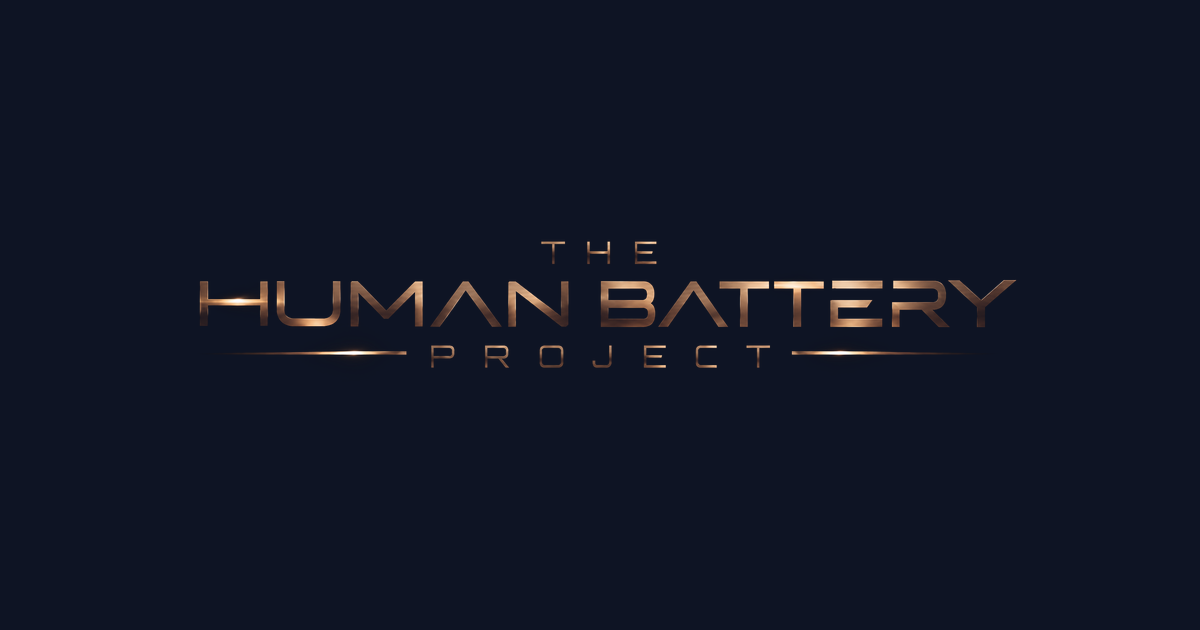
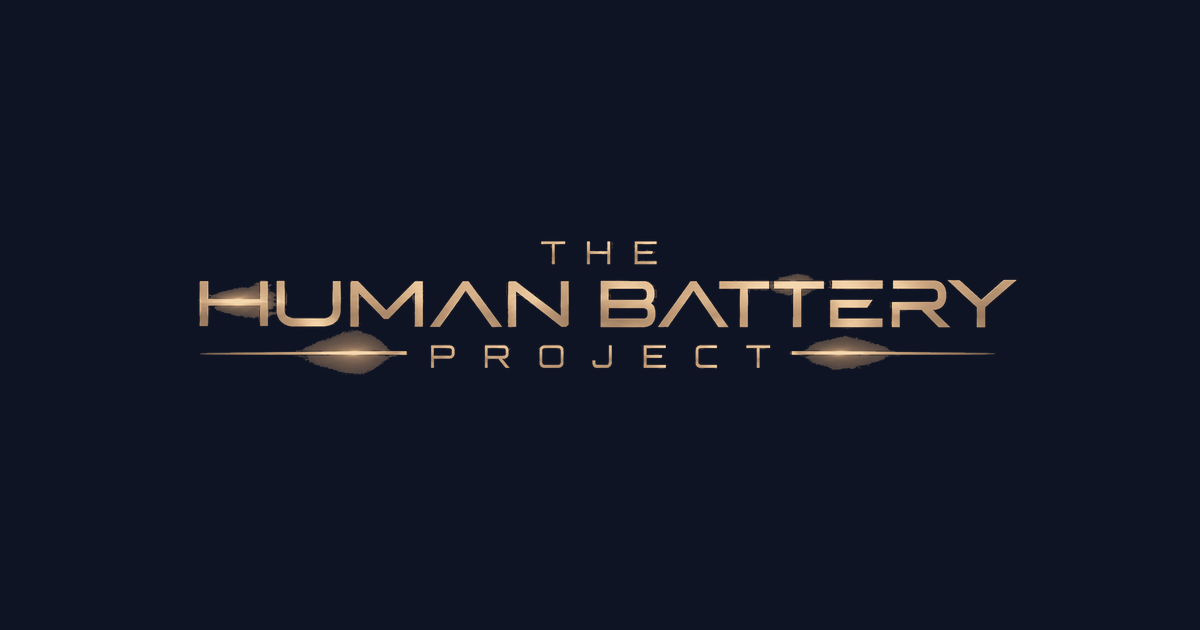
A1: hero wordmark legibility, improved and honestly short of the target
RECOMPUTED FIRST, per rule 0.1, and it is worse than the brief states:
64.5 percent of ink area is below 3:1, not half, and the 10th percentile
is 1.01:1, not 1.4:1.

Regenerated as specified: floor raised, midtone copper-light, highlight
no lighter than #F5D7AF, same 2172x724 canvas, alpha keyed as before.
Measured at the rendered 262px hero width on a 390px viewport:

                       10th    50th    90th
  v1, live today       1.01    1.50    5.95
  A1                   1.18    3.40    9.82

THE MEDIAN MORE THAN DOUBLES. The 10th percentile does not reach 4.5 and
I could not make it, so I am not claiming it.

WHY IT CANNOT BE REACHED. This artwork is a glow: 23 percent of its ink
pixels sit at alpha 0 to 31, and a partially transparent pixel
composites toward the background by construction, whatever its colour.
No gradient floor can lift a pixel that is nine tenths background. I
swept the floor from #B4794F to #E6C39B and the alpha gamma from 1.0 to
0.12, sixteen combinations. Exactly one reaches 4.5 at the 10th
percentile over all ink: floor #D9A87A at gamma 0.12. I rendered it and
looked at it. It turns the two lens flares beside PROJECT into opaque
blobs and destroys the mark. That is the trade the number demands and I
did not take it without asking.

What I shipped is floor #D9A87A at gamma 0.32, which keeps the flares as
flares, and I have attached the comparison.

THIS IS YOUR DECISION, and it is the only way past 4.5: the wordmark
[…]

Changed region(s): [[0.1542, 0.3619, 0.8325, 0.6032], [0.8325, 0.4222, 0.8633, 0.4524]]

diff --git a/public/science.html b/public/science.html
@@ -20,7 +20,7 @@
 <meta name="twitter:description" content="Thirty-three biomarkers and physical capacity testing at day 0, a structured protocol, the same measurements at day 90.">
 <meta name="twitter:image" content="https://thehumanbatteryproject.com/assets/og-card.png">
 <meta name="theme-color" content="#0E1424">
-<link rel="stylesheet" href="/styles.css?v=47">
+<link rel="stylesheet" href="/styles.css?v=48">
 <style>
 /* ---------- illustrations ---------- */
 .fig{margin:2.4rem 0;padding:1.2rem 1.2rem 1rem;border:1px solid var(--rule,rgba(168,160,150,.16));border-radius:3px;background:var(--navy,#1C2742)}

diff --git a/public/index.html b/public/index.html
@@ -20,7 +20,7 @@
 <meta name="twitter:description" content="A 90 day program. We measure what your body runs on, you change the inputs, and we measure again.">
 <meta name="twitter:image" content="https://thehumanbatteryproject.com/assets/og-card.png">
 <meta name="theme-color" content="#0E1424">
-<link rel="stylesheet" href="/styles.css?v=47">
+<link rel="stylesheet" href="/styles.css?v=48">
 <style>
 /* ---------- illustrations ---------- */
 .fig{margin:2.4rem 0;padding:1.2rem 1.2rem 1rem;border:1px solid var(--rule,rgba(168,160,150,.16));border-radius:3px;background:var(--navy,#1C2742)}

diff --git a/public/enrolled.html b/public/enrolled.html
@@ -12,7 +12,7 @@
 <link rel="canonical" href="https://thehumanbatteryproject.com/enrolled">
 <meta name="description" content="Your payment went through and you are enrolled.">
 <meta name="theme-color" content="#0E1424">
-<link rel="stylesheet" href="/styles.css?v=47">
+<link rel="stylesheet" href="/styles.css?v=48">
 <style>
 /* These three are a sequence, so they hold one column at every width
    rather than taking the two-column .checks grid used on the home page. */

diff --git a/public/consumer-health-data.html b/public/consumer-health-data.html
@@ -10,7 +10,7 @@
 <link rel="apple-touch-icon" href="/assets/mark-192.png">
 <link rel="canonical" href="https://thehumanbatteryproject.com/consumer-health-data">
 <meta name="robots" content="noindex">
-<link rel="stylesheet" href="/styles.css?v=47">
+<link rel="stylesheet" href="/styles.css?v=48">
 </head>
 <body>
 <header class="top"><div class="wrap">

diff --git a/public/404.html b/public/404.html
@@ -10,7 +10,7 @@
 <link rel="apple-touch-icon" href="/assets/mark-192.png">
 <meta name="robots" content="noindex">
 <link rel="canonical" href="https://thehumanbatteryproject.com/404">
-<link rel="stylesheet" href="/styles.css?v=47">
+<link rel="stylesheet" href="/styles.css?v=48">
 </head>
 <body class="plain">
 <header class="top"><div class="wrap">

diff --git a/public/disclaimer.html b/public/disclaimer.html
@@ -10,7 +10,7 @@
 <link rel="apple-touch-icon" href="/assets/mark-192.png">
 <link rel="canonical" href="https://thehumanbatteryproject.com/disclaimer">
 <meta name="robots" content="noindex">
-<link rel="stylesheet" href="/styles.css?v=47">
+<link rel="stylesheet" href="/styles.css?v=48">
 </head>
 <body>
 <header class="top"><div class="wrap">

diff --git a/public/privacy.html b/public/privacy.html
@@ -10,7 +10,7 @@
 <link rel="apple-touch-icon" href="/assets/mark-192.png">
 <link rel="canonical" href="https://thehumanbatteryproject.com/privacy">
 <meta name="robots" content="noindex">
-<link rel="stylesheet" href="/styles.css?v=47">
+<link rel="stylesheet" href="/styles.css?v=48">
 </head>
 <body>
 <header class="top"><div class="wrap">

diff --git a/public/terms.html b/public/terms.html
@@ -10,7 +10,7 @@
 <link rel="apple-touch-icon" href="/assets/mark-192.png">
 <link rel="canonical" href="https://thehumanbatteryproject.com/terms">
 <meta name="robots" content="noindex">
-<link rel="stylesheet" href="/styles.css?v=47">
+<link rel="stylesheet" href="/styles.css?v=48">
 </head>
 <body>
 <header class="top"><div class="wrap">
